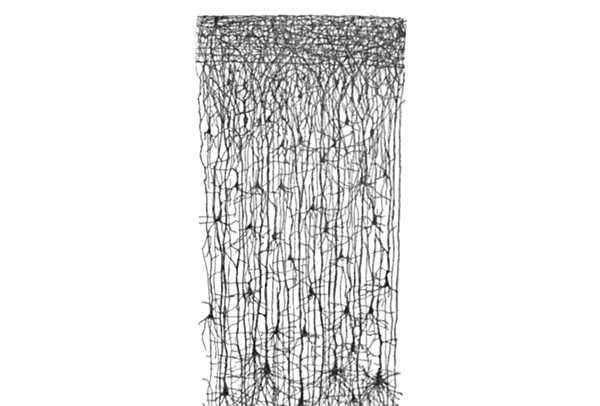
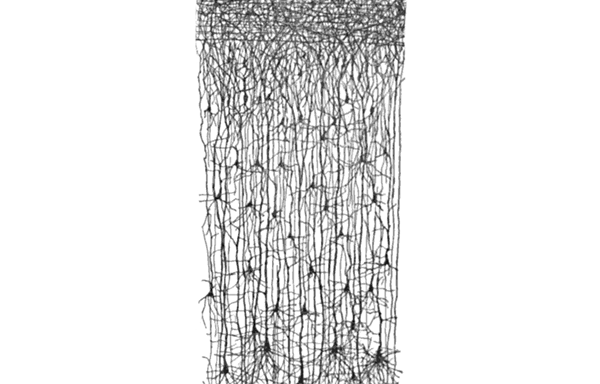
Cropped cortical column image and added <hr> below our theory

Changed region(s): [[0.3, 0.0, 0.69, 1.0]]

diff --git a/packages/numenta.com/pages/neuroscience-research/cortical-theory/index.md b/packages/numenta.com/pages/neuroscience-research/cortical-theory/index.md
@@ -47,7 +47,8 @@ We document our research in several ways, including [peer-reviewed journal paper
 </section>
 
 ## Our Theory
-___
+<hr>
+
 <section>
 <aside>
 
